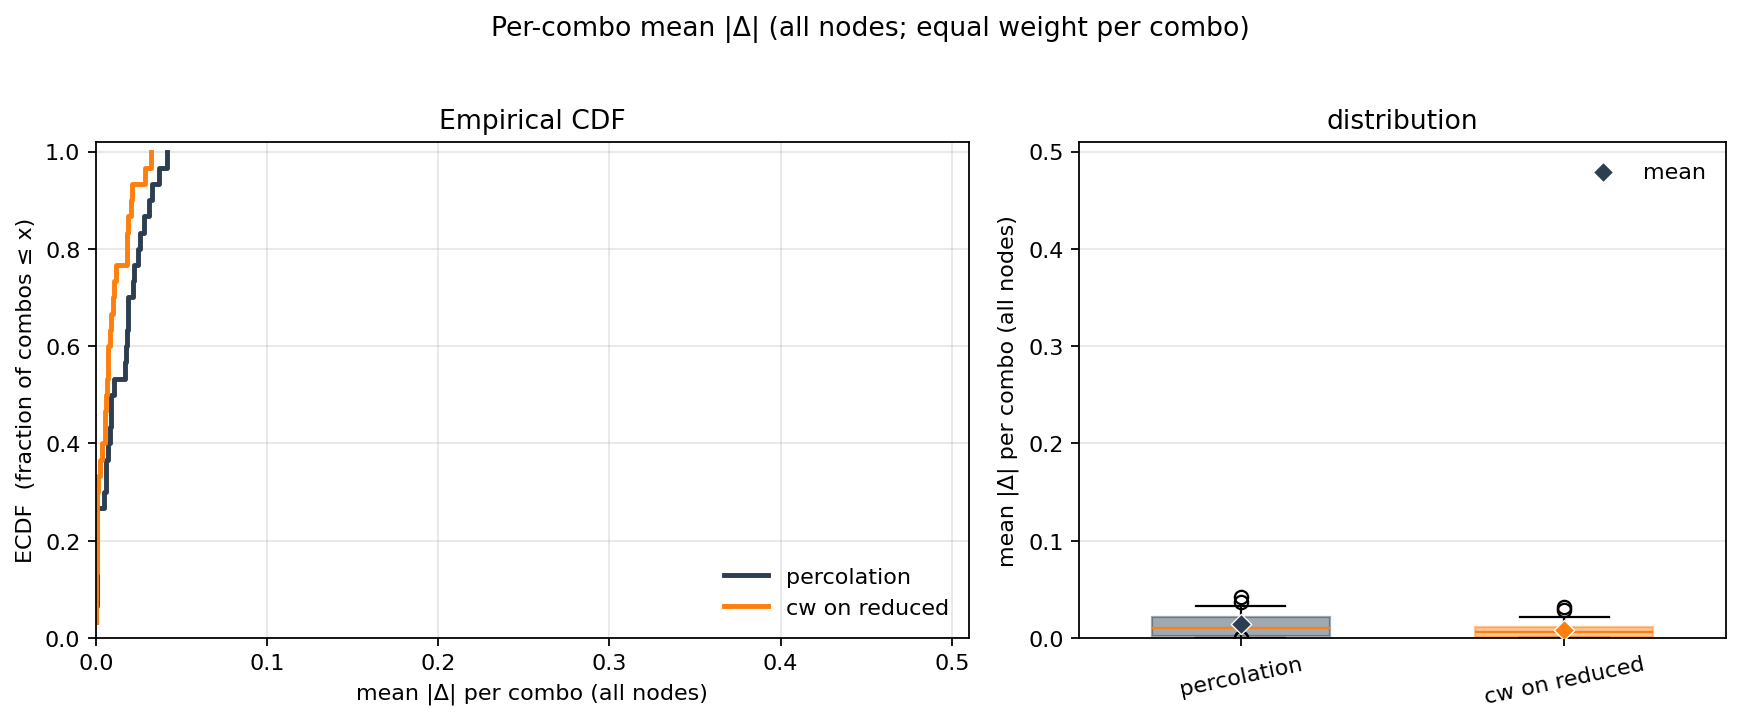
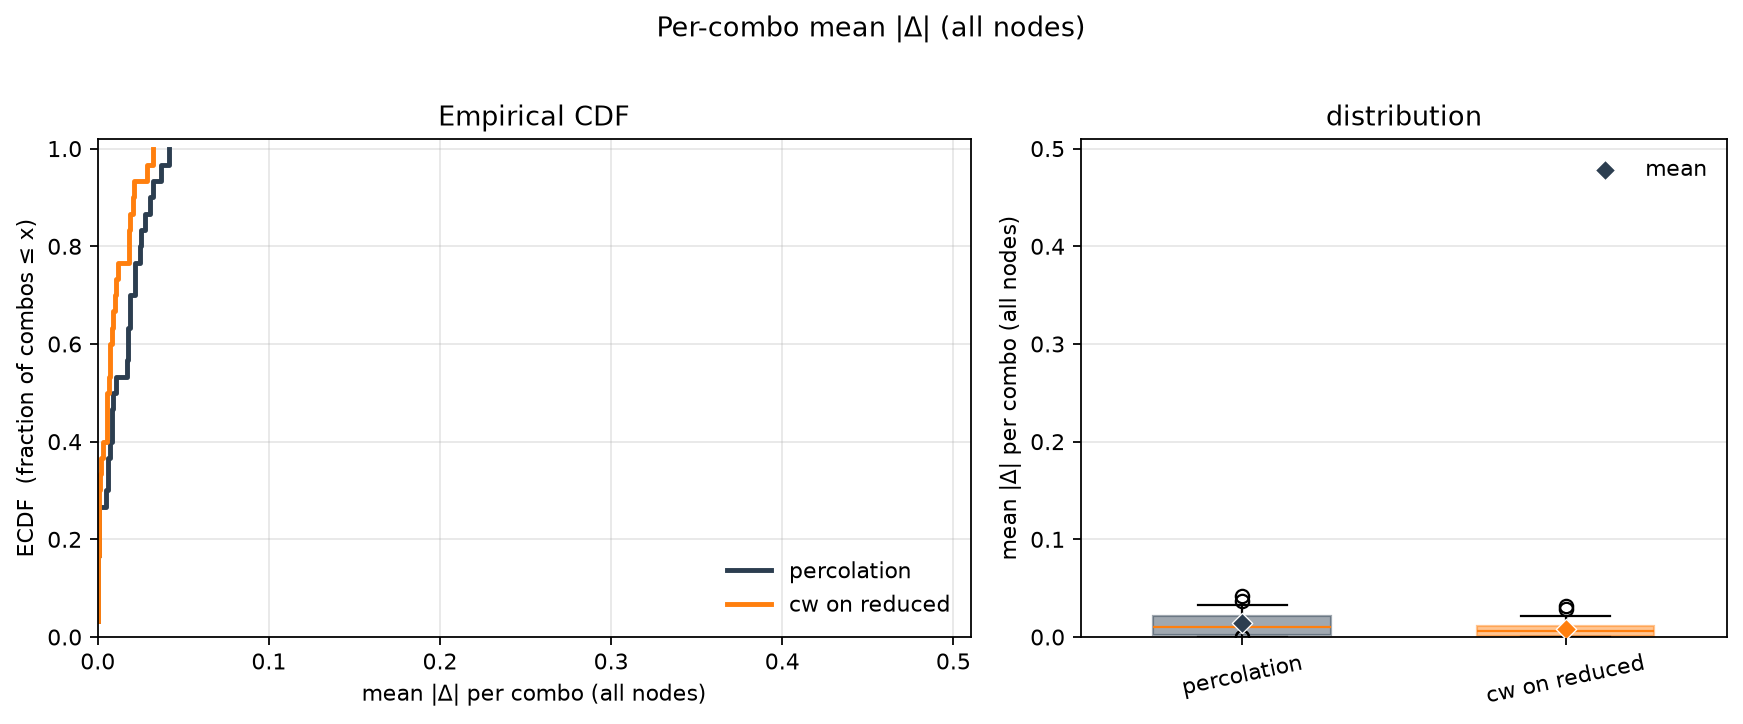
Clean up plots

diff --git a/dev/plot_ldoi_ra_243_focus.py b/dev/plot_ldoi_ra_243_focus.py
@@ -13,8 +13,7 @@
 # 2. ``nodes_pooled_ecdf_summary.png`` (ECDF | box over node×combo)
 # 3. ``nodes_ldoi_unfixed_ecdf_summary.png`` (ECDF | box over node×combo)
 # 4. ``combos_pooled_ecdf_summary.png`` (ECDF | box of per-combo mean |Δ|)
-# 5. ``combos_ldoi_unfixed_ecdf_summary.png`` (same, unfixed means;
-#    equal weight per combo — avoids overweighting large free sets)
+# 5. ``combos_ldoi_unfixed_ecdf_summary.png`` (same, unfixed means)
 
 # %%
 from __future__ import annotations
@@ -293,14 +292,14 @@ unfixed = node_cmp[node_cmp["ldoi_unfixed"].astype(bool)]
 p_unfixed = plot_ecdf_box(
     _series_from_node_cmp(unfixed),
     path=OUT_DIR / "nodes_ldoi_unfixed_ecdf_summary.png",
-    title="Unfixed nodes only (excl. sources; set varies by combo)",
+    title="Unfixed nodes only (set varies by combo)",
 )
 print(f"wrote {p_unfixed}")
 
 p_combo_pooled = plot_ecdf_box(
     _series_from_per_combo(per_combo, PER_COMBO_MEAN_COL),
     path=OUT_DIR / "combos_pooled_ecdf_summary.png",
-    title="Per-combo mean |Δ| (all nodes; equal weight per combo)",
+    title="Per-combo mean |Δ| (all nodes)",
     value_label="mean |Δ| per combo (all nodes)",
     ecdf_item="combos",
 )
@@ -309,10 +308,7 @@ print(f"wrote {p_combo_pooled}")
 p_combo_unfixed = plot_ecdf_box(
     _series_from_per_combo(per_combo, PER_COMBO_MEAN_UNFIXED_COL),
     path=OUT_DIR / "combos_ldoi_unfixed_ecdf_summary.png",
-    title=(
-        "Per-combo mean |Δ| on unfixed nodes only "
-        "(excl. sources; equal weight per combo)"
-    ),
+    title="Per-combo mean |Δ| on unfixed nodes only",
     value_label="mean |Δ| per combo (unfixed nodes only)",
     ecdf_item="combos",
 )
